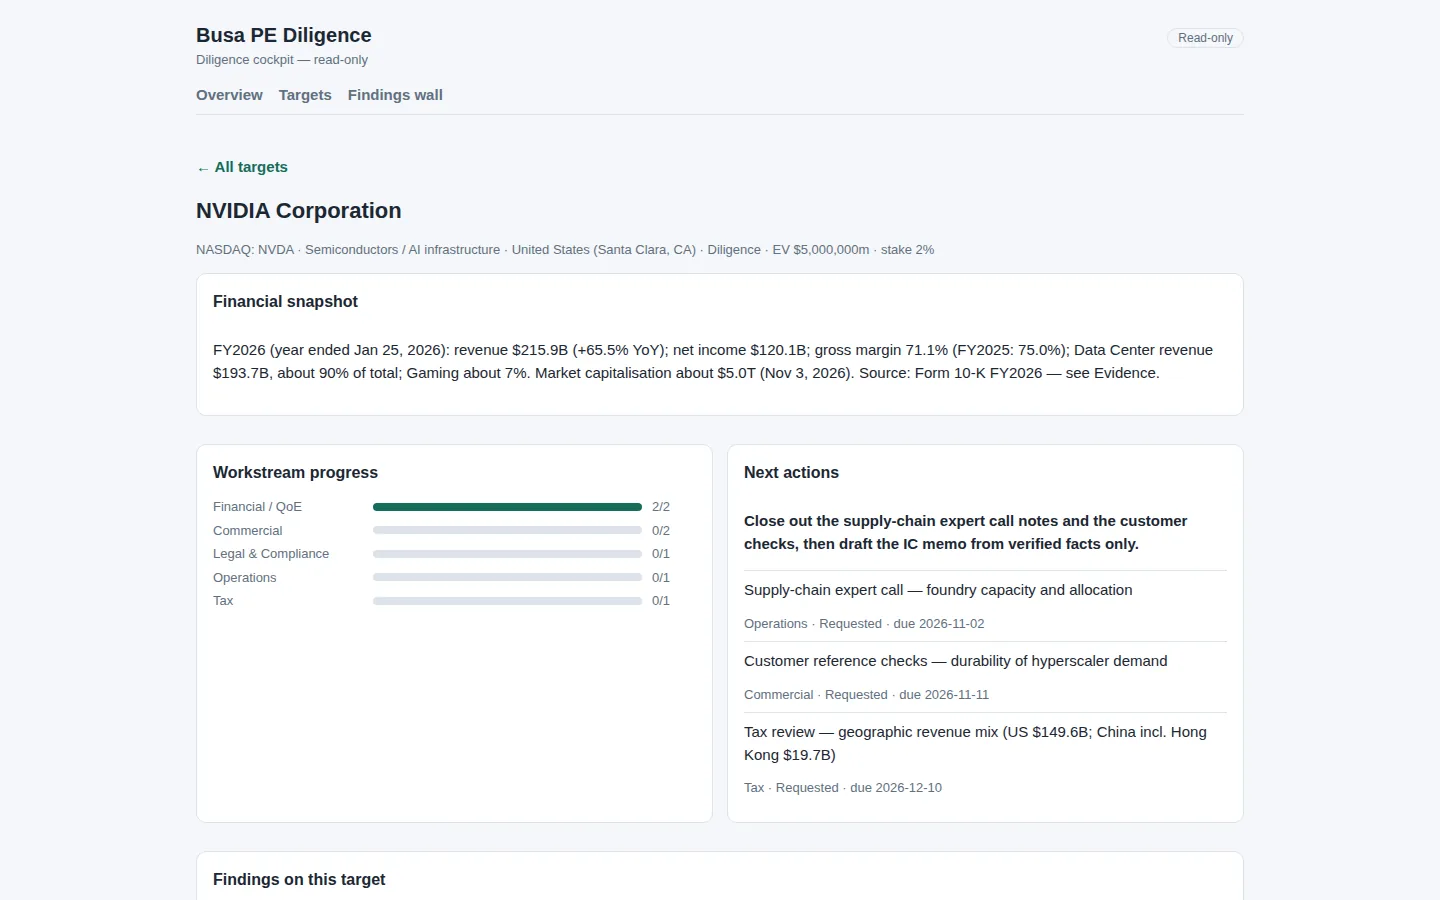
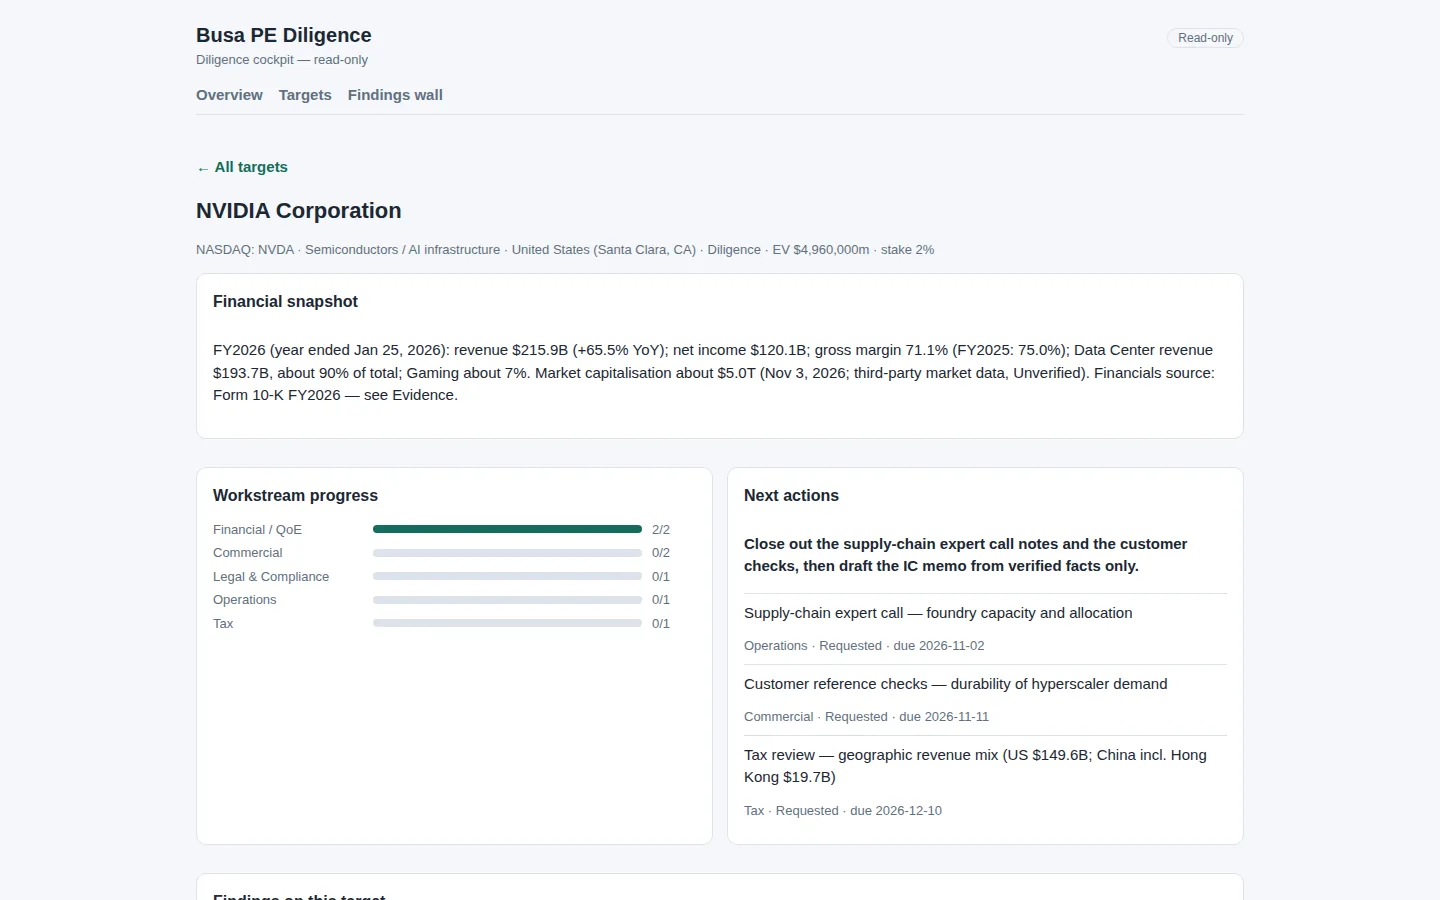
Correct seed-data labels after an independent source audit
Every load-bearing figure was re-verified against primary sources
(NVIDIA FY2026 10-K; TechCrunch/The Information reporting for
Perplexity): no number changed. Seven labelling/consistency fixes:

- PE target snapshot: market-cap figure no longer attributed to the
  10-K; source line split (financials: 10-K; market cap: third-party,
  Unverified). Indicative-EV field now carries the ~$4.96T EV estimate
  instead of the market-cap figure, with the estimate sourced in the
  market-cap evidence row.
- PE margin finding retitled: the 10-K MD&A names two drivers
  (Blackwell transition and the $4.5B H20 charge), not one.
- VC findings for ARR and the valuation multiple now also cite the
  ARR evidence row their claims rest on.
- PE seed dates harmonised to the desk's 2026-11-05 as-of date.
- VC interview rows carry their (demo example) marker on the row.
- VC founder-statement evidence notes the exact post day is
  unconfirmed; March 2026 is the corroborated precision.

PE target-detail screenshot and walkthrough clip re-shot so the
gallery matches the corrected data; VC media verified pixel-identical
and untouched.

diff --git a/templates/busa-pe-diligence/content/busa-pe-diligence-app/app/js/config.js b/templates/busa-pe-diligence/content/busa-pe-diligence-app/app/js/config.js
@@ -839,8 +839,8 @@ export const appConfig = {
         "stage": "diligence",
         "deal-type": "minority-growth",
         "ownership-stake-percent": 2,
-        "enterprise-value-usd-m": 5000000,
-        "financial-snapshot": "FY2026 (year ended Jan 25, 2026): revenue $215.9B (+65.5% YoY); net income $120.1B; gross margin 71.1% (FY2025: 75.0%); Data Center revenue $193.7B, about 90% of total; Gaming about 7%. Market capitalisation about $5.0T (Nov 3, 2026). Source: Form 10-K FY2026 — see Evidence.",
+        "enterprise-value-usd-m": 4960000,
+        "financial-snapshot": "FY2026 (year ended Jan 25, 2026): revenue $215.9B (+65.5% YoY); net income $120.1B; gross margin 71.1% (FY2025: 75.0%); Data Center revenue $193.7B, about 90% of total; Gaming about 7%. Market capitalisation about $5.0T (Nov 3, 2026; third-party market data, Unverified). Financials source: Form 10-K FY2026 — see Evidence.",
         "deal-source": "Public-market screening (demo example)",
         "deal-lead": "Deal team (demo)",
         "target-ic-date": "2026-12-15",
@@ -901,7 +901,7 @@ export const appConfig = {
         "requested-from": "SEC EDGAR (public filing)",
         "internal-owner": "Deal team (demo)",
         "due-date": "2026-11-20",
-        "received-date": "2026-11-06",
+        "received-date": "2026-11-03",
         "notes": "Primary source for every headline figure in the target's financial snapshot."
       }
     },
@@ -919,7 +919,7 @@ export const appConfig = {
         "requested-from": "SEC EDGAR (public filing)",
         "internal-owner": "Deal team (demo)",
         "due-date": "2026-11-20",
-        "received-date": "2026-11-08",
+        "received-date": "2026-11-04",
         "notes": "Reviewed for changes in segment mix and risk factors since the annual filing."
       }
     },
@@ -937,7 +937,7 @@ export const appConfig = {
         "requested-from": "Form 10-K disclosure; customer calls to follow",
         "internal-owner": "Deal team (demo)",
         "due-date": "2026-12-01",
-        "received-date": "2026-11-10",
+        "received-date": "2026-11-05",
         "notes": "Concentration is disclosed in the 10-K; durability of that demand is what the customer checks must test."
       }
     },
@@ -956,7 +956,7 @@ export const appConfig = {
         "advisor-owner": "External counsel (demo)",
         "internal-owner": "Deal team (demo)",
         "due-date": "2026-12-03",
-        "received-date": "2026-11-12",
+        "received-date": "2026-11-05",
         "notes": "Counsel confirmation outstanding; the filing itself is already in Evidence."
       }
     },
@@ -1138,7 +1138,7 @@ export const appConfig = {
         "source-date": "2026-11-03",
         "as-of-date": "2026-11-05",
         "verification": "unverified",
-        "summary": "A moving market figure from a third-party data page. Re-base on the IC-date close before any valuation work; do not carry this number into the IC memo as a fact."
+        "summary": "A moving market figure from a third-party data page. Re-base on the IC-date close before any valuation work; do not carry this number into the IC memo as a fact. Third-party estimates put enterprise value at about $4.96T on the same date; the target's indicative-EV field carries that estimate, not the market-cap figure."
       }
     },
     {
@@ -1222,7 +1222,7 @@ export const appConfig = {
       "id": "find-nvda-margin",
       "baseKey": "findings",
       "fields": {
-        "title": "Gross-margin compression on the Blackwell transition",
+        "title": "Gross-margin compression: Blackwell transition plus the $4.5B H20 charge",
         "target": [
           "target-nvidia"
         ],
@@ -1324,7 +1324,7 @@ export const appConfig = {
           "target-harbormed"
         ],
         "interview-type": "management",
-        "date": "2026-11-09",
+        "date": "2026-11-03",
         "participants": "Founder team (fictional example)",
         "key-claims": "Growth and margin claims matching the teaser — which is exactly why they stay untested until audited statements arrive.",
         "consistency": "untested",

diff --git a/templates/busa-vc-diligence/content/busa-vc-diligence-app/app/js/config.js b/templates/busa-vc-diligence/content/busa-vc-diligence-app/app/js/config.js
@@ -1206,7 +1206,7 @@ export const appConfig = {
           "demo-target-perplexity"
         ],
         "type": "expert",
-        "interviewee": "Former search-industry executive (expert network call)",
+        "interviewee": "Former search-industry executive (expert network call; demo example)",
         "date": "__RECENT__",
         "interviewer": "Deal team",
         "key-claims": "Claims logged as claims: distribution partnerships decide who keeps query share; enterprise seats are expanding faster than consumer subscriptions. None of this is verified by the call itself.",
